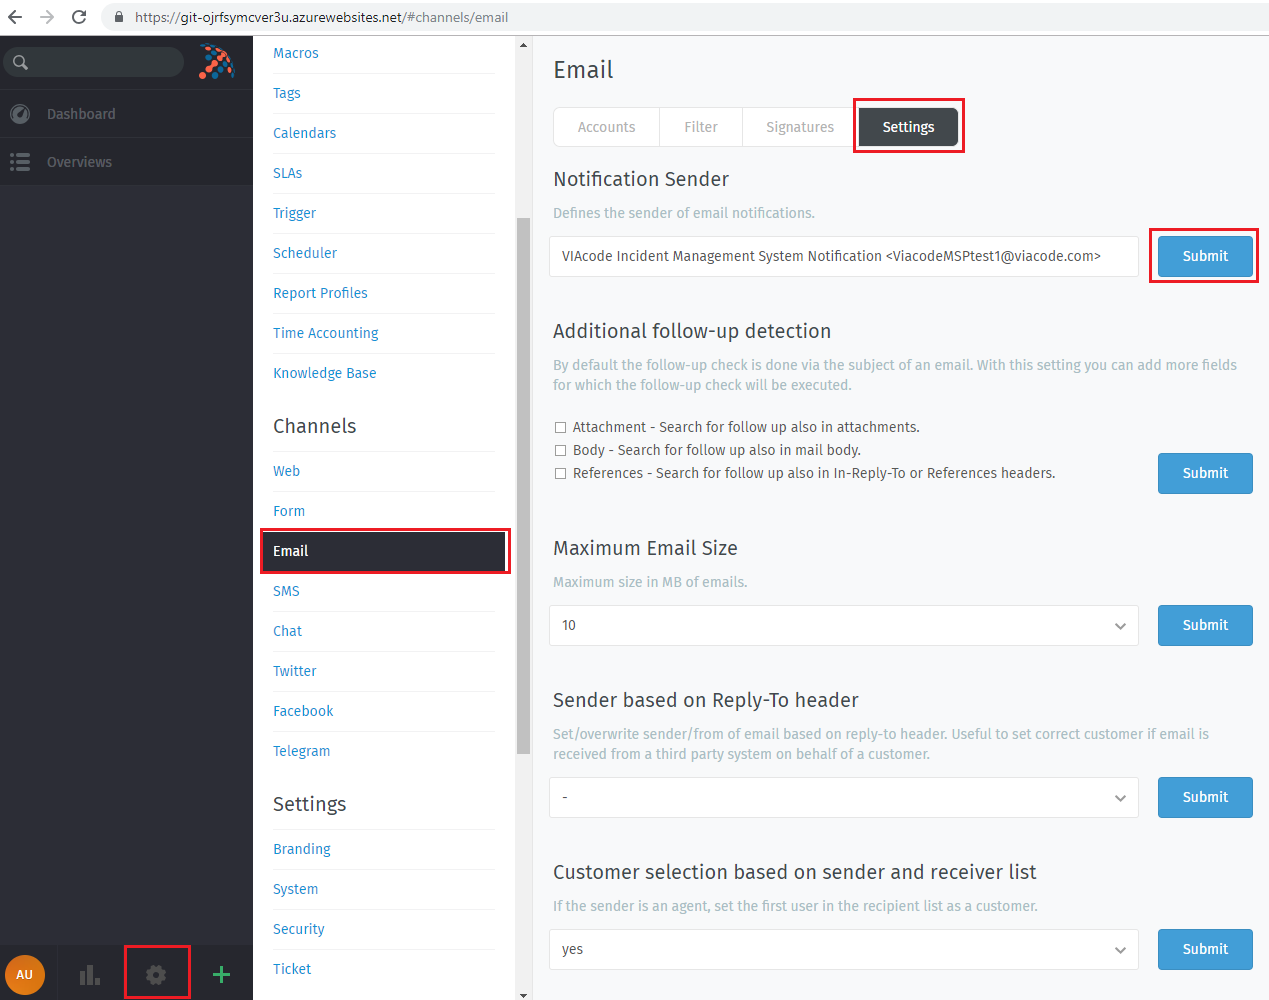
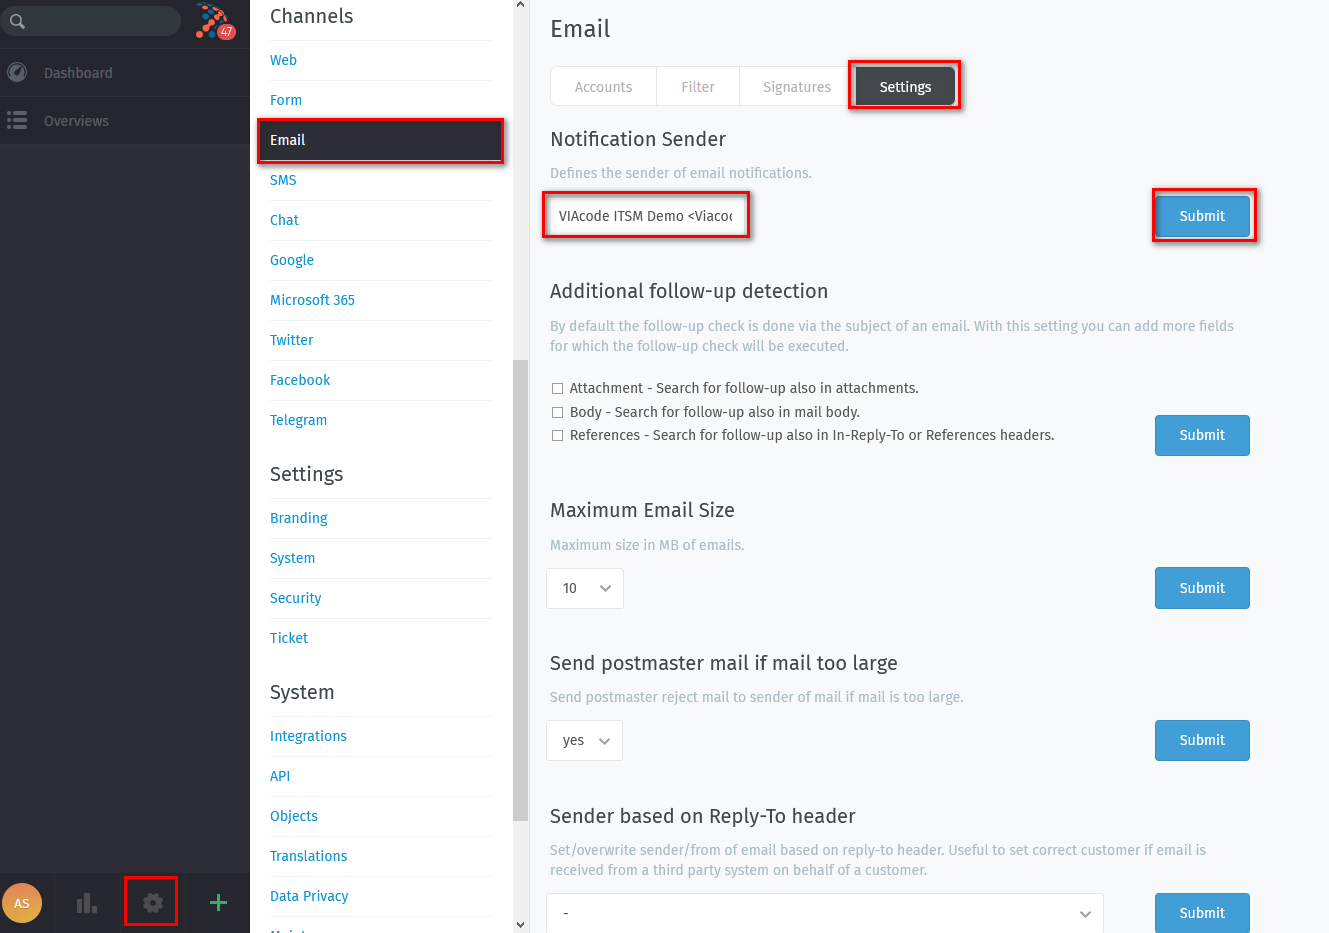
Updated information about authentication using MS Office 365 and email notifications configuration
Updated information about authentication using MS Office 365 and email notifications configuration

diff --git a/VIAcode Incident Management System for Azure deployment and сonfiguration guide.md b/VIAcode Incident Management System for Azure deployment and сonfiguration guide.md
@@ -3,25 +3,25 @@
 - [Before you begin](#before-you-begin)
   - [Deploy from Azure Marketplace](#deploy-from-azure-marketplace)
     - [Pricing](#pricing)
-
 - [Configuration of VIAcode Incident Management System for Azure](#configuration-of-viacode-incident-management-system-for-azure)
   - [Basics](#basics)
   - [Settings](#settings)
-    - [Purpose of an App registration](#purpose-of-an-app-registration)
   - [Review and create](#review-and-create)
-  - [Redirect URI for Azure AD Integration](#redirect-uri-for-azure-ad-integration)
   - [First Sign in](#first-sign-in)
-    - [Email configuration](#email-configuration)
-    - [Notes](#notes)
-    - [Enable Azure AD Integration after installation](#enable-azure-ad-integration-after-installation)
-
-- [Additional information](#additional-information)
-  - [Steps to create a new App registration in Azure AD](#steps-to-create-a-new-app-registration-in-azure-ad)
-
+  - [Redirect URI for Azure AD Integration](#redirect-uri-for-azure-ad-integration)
+  - [Email configuration](#email-configuration)
+    - [Notification sender](#Notification-sender)
+    - [Outbound notification](#Outbound-notification)
+    - [Microsoft 365 channel configuration](Microsoft-365-channel-configuration)
+    - [Email notification notes](#Email-notification-notes)
+- [Enable Azure AD Integration with Office 365 after installation](#Enable-Azure-AD-Integration-with-Office-365-after-installation)
+  - [Enable https in Settings](#Enable-https-in-Settings)
+  - [Create a new App registration in Azure AD](#Create-a-new-App-registration-in-Azure-AD)
+  - [Enable Office 365 Authentication](#Enable-Office-365-Authentication)
 - [Uninstallation of VIAcode Incident Management System for Azure](#uninstallation-of-viacode-incident-management-system-for-azure)
   - [Deletion Notes](#deletion-notes)
   - [Steps to Remove Application and Managed Resource Group](#steps-to-remove-application-and-managed-resource-group)
-<!-- TOC END -->
+  <!-- TOC END -->
 
 ## Before you begin
 
@@ -68,21 +68,13 @@ After you have selected "VIAcode Incident Management System for Azure" software 
 
 ## Settings
 
-To enable Azure AD Integration you have to specify Azure AD Application Registration ID and Secret. To create a new App registration see [Steps to create a new App registration in Azure AD](#steps-to-create-a-new-app-registration-in-azure-ad).
-
-![Azure AD Integration](./media/azureADIntegrationEnabled.png)
-
-- Either "Enable" Azure AD integration or leave it "Disabled".
-- Set Azure AD Application Registration ID.
-- Set Secret.
+- "Enable" Azure AD integration or leave it "Disabled".
+To enable Azure AD Integration you have to specify Azure AD Application Registration ID and Secret.  How create a new App registration see [Create a new App registration in Azure AD](#Create-a-new-App-registration-in-Azure-AD).
+- For "Enabled" scenario set Azure AD Application Registration ID and  Secret.
+- For "Disabled" scenario continue installation with default settings. 
 - Press "Next : Review + create >" button.
 
-### Purpose of an App registration
-
-It is used to integrate VIAcode Incident Management System for Azure with Azure AD and Office 365.
-Using Azure App, we can generate the token to authenticate the application.
-When Azure App is created we can get the Application (client) ID and Secret.
-For more information see [Quickstart: Register an application with the Microsoft identity platform.](https://docs.microsoft.com/azure/active-directory/develop/quickstart-register-app)
+![Azure AD Integration](./media/azureADIntegrationEnabled.png)
 
 ## Review and create
 
@@ -91,11 +83,30 @@ For more information see [Quickstart: Register an application with the Microsoft
 - Agree to the terms and conditions.
 - Press "Create" button.
 
+## First Sign in
+
+- Open VIAcode Incident Management System for Azure dashboard and click on the link to get to the system.
+
+![First Sign in](./media/firstSignIn.png)
+
+### Login to VIMS
+
+Read this section if you installed VIMS with AAD Integration "Disabled" option. 
+
+- USERNAME / EMAIL - admin.
+- Password - admin.
+- "Sign in".
+
+Note: By default VIMS administrator has admin/admin credentials. Please, do not forget to change them after your first Sign in.
+
+![Sign in using credentials](./media/signInUsingCredentials.png)
+
 ## Redirect URI for Azure AD Integration
 
-When deployment finishes (it usually takes up to 15 minutes to complete) you will have to configure redirect URI to enable Azure Active Directory integration.
+Read this section if you installed VIMS with AAD Integration "Enabled" option. 
+After VIMS installation you will have to configure redirect URI to enable Azure Active Directory integration.
 
-**Step 1** In the left-hand navigation pane, select the "Azure Active Directory" service, then select "App registrations" and "[Name of the App registration you used to install VIAcode Incident Management System for Azure]."
+**Step 1** In the left-hand navigation pane, select the "Azure Active Directory" service, then select "App registrations" and "Name of the App registration" you used to install VIAcode Incident Management System for Azure.
 
 
 **Step 2** Click on "Redirect URIs" link.
@@ -106,9 +117,9 @@ When deployment finishes (it usually takes up to 15 minutes to complete) you wil
 Configure Redirect URI.
 
 - TYPE - Web.
-- REDIRECT URI - https://[App Service Address]/auth/microsoft_office365/callback.
+- REDIRECT URI - https://your-domain.com/auth/microsoft_office365/callback.
 
-Note: The [App Service Address] can be copied from Parameters and Outputs of the installed managed application.
+Note: The  ``your-domain.com``can be copied from Parameters and Outputs of the installed managed application.
 
 ![Configure Redirect URI](./media/configureRedirectURI.png)
 
@@ -116,33 +127,23 @@ Final string looks like `https:/vims-nktbyzg56jxak.azurewebsites.net/auth/micros
 
 - Click on "Register."
 
-## First Sign in
+## Email configuration
+When you Log in to VIAcode Incident Management System for Azure as administrator please configure email notification. 
+Next steps will show how configure email notification for account. 
 
-![First Sign in](./media/firstSignIn.png)
+### Notification sender 
+Define notification sender email address. 
+Note that Microsoft 365 account needs to have Exchange license to be able send and receive messages. 
 
-- Open VIAcode Incident Management System for Azure dashboard and click on the link to get to the system.
-
-![Sign in using credentials](./media/signInUsingCredentials.png)
-
-- USERNAME / EMAIL - admin.
-- Password - admin.
-- "Sign in".
-
-Note: By default VIMS administrator has admin/admin credentials. Please, do not forget to change them after your first Sign in.
-
-### Email configuration
-
-When you Log in to VIAcode Incident Management System for Azure as administrator please configure email notification.
-
-![Notification Sender](./media/notificationSender.png)
-
-- Click "Cogwheel" in the left bottom corner.
+- Click "Gear" at the left bottom corner.
 - Click "Email" in Channels section.
 - Click "Settings".
-- Enter sender name and email in angle brackets in Notification Sender section like it is shown in the screenshot.
+- Enter sender name and email in angle brackets in "Notification Sender" section like it is shown in the screenshot below.
 - Click "Submit".
+![Notification Sender](./media/notificationSender.png)
 
-![Email Notification](./media/emailNotification.png)
+### Outbound notification
+Configure Outbound notification on  issues that were raised by external sources. For example,  incidents and recommendations from [ITSM Connector for Azure]( https://azuremarketplace.microsoft.com/en-us/marketplace/apps/viacode_consulting-1089577.viacode-itsm-connector-for-azure?tab=Overview).
 
 - Click "Accounts".
 - Click "Edit" in Email Notification section.
@@ -153,39 +154,50 @@ When you Log in to VIAcode Incident Management System for Azure as administrator
 - Default port for SMTP is 587.
 - Click "Continue" button.
 
-![New email Accounts and Experts](./media/newEmailAccountsAndExperts.png)
+![EmailNotificationOutbound](./media/emailNotifOutboundsmtp.png)
 
-- Click "New" button in Email Accounts section.
-- Fill Organization & Department Name.
-- Fill Email with the account you will you use for email notification.
-- Select "Incidents" in Destination Group.
-- Click "Experts" link.
+### Microsoft 365 channel configuration
+It is possible receive incidents raised by customers using direct email messages to the 'Notification sender's' email address. Each email message to this account will create new ticket in VIMS. 
+Below described configuration flow for Microsoft 365 channel. 
 
-![Email Inbound](./media/emailInbound.png)
+#### Enable https in Settings
+- Open VIMS admin panel
+- Select "Gear" at the left bottom corner
+- Go to  "Settings-System-Base-HTTP type"
+- Select "https"
+- Click "Submit"
 
-- Select "IMAP" Type.
-- Fill Host with `outlook.office365.com` for office 365 accounts.
-- Fill User with the account you will you use for email notification.
-- Fill Password.
-- Default port for IMAP is 993.
-- Click "Continue" button.
+![Enablehttps](./media/EnableHttps.png)
 
-![Email Outbound](./media/emailOutbound.png)
+#### Copy Callback URL in Microsoft 365 
 
-- Check settings.
-- Default port for SMTP is 587.
-- Click "Continue" button.
+- Open VIMS admin panel
 
-Now, when email configuration is complete, make sure Incoming Group has email configured.
+- Go to  "Channels-Microsoft 365- Accounts- Connect Microsoft 365 App"
 
-![Edit Incoming Group](./media/editIncomingGroup.png)
+- Copy "Your callback URL" field 
 
-- Click "Cogwheel" in the left bottom corner.
-- Click "Groups".
-- Click "Incoming".
-- Click "Email" and select the Notification Sender you have configured.
+- It will have the following format:`` https://your-domain.com/api/v1/external_credentials/microsoft365/callback``
 
-#### Notes
+  ![CallbackURL](./media/callbackURL.png)
+
+#### Create Application in AAD
+
+Create application in Azure Active Directory of notification email account's tenant. For example, for viacode.com email account we need create application in AAD for viacode.com tenant. 
+
+Follow application configuration process described in [Zammad documentation](https://admin-docs.zammad.org/en/latest/channels/microsoft365/accounts/register-app.html#step-by-step). 
+
+#### Connect Microsoft 365 app with VIMS
+
+-  Follow steps  [how connect to O365 account in Zammad documentation](https://admin-docs.zammad.org/en/latest/channels/microsoft365/accounts/account-setup.html#add-a-new-account ). 
+- Click "Add account" to authenticate in Azure 
+- Select "Incidents" as a Destination Group
+
+![ConfigMSOffice365](./media/configO365.png)
+
+Congratulations! Now all incoming messages will be converted into incidents in your ticketing system.
+
+### Email notification notes
 
 Email configuration is required for enabling following functionality:
 
@@ -206,23 +218,27 @@ In general, VIAcode Incident Management System for Azure best practice is to cre
 
 For current email set up documentation see [e-mail](https://zammad-admin-documentation.readthedocs.io/en/latest/channels-email.html).
 
-### Enable Azure AD Integration after installation
 
-To Sign in using Office 365 account after you installed VIAcode Incident Management System for Azure with AD Integration disabled follow these steps:
+## Enable Azure AD Integration with Office 365 after installation
+This section allows enable authentication to VIMS using Office 365 email account or, in other words, enable Azure AD Integration.  
 
-- Enable HTTPS in System - Base and Make sure Fully Qualified Domain Name is identical to your real URL.
+### Enable https in Settings
 
-![Check HTTPS enabled](./media/httpsConfigEnabled.png)
+- Open VIMS admin panel
+- Go to  "Settings-System-Base-HTTP type"
+- Select "https"
+- Click "Submit"
 
-- Select Security - Third-party Applications and enable checkbox Authentication via Office 365, then fill App ID and App Secret according to created application.
+![Enablehttps](./media/EnableHttps.png)
 
-![Configure Office365](./media/authMicrosoftOffice365Config.png)
 
-## Additional information
+### Create a new App registration in Azure AD
 
-## Steps to create a new App registration in Azure AD
+App registrations is used to integrate VIAcode Incident Management System for Azure with Azure AD and Office 365. Using Azure App, we can generate the token to authenticate the application. When Azure App is created we can get the Application (client) ID and Secret.
 
-Follow the below-listed steps to register the application.
+Follow the below-listed steps to register the application. 
+
+Please note, to enable Office 365 authentication you cannot use ClientID and Secret of application that was created for   Microsoft 365 email channel notification.  You need create different application with different name and settings. 
 
 **Step 1**
 Log in to the Azure Portal using your Azure account.
@@ -235,9 +251,12 @@ In the left-hand navigation pane, select the "Azure Active Directory" service, a
 When the Register an application page appears, enter your application's registration information:
 
 - Name: Enter a meaningful application name that will be displayed to users of the app. (VIAcode Incident Management System for Azure.)
-- Supported account types: Select which accounts you would like your application to support. (Accounts in any organizational directory (Any Azure AD directory - Multitenant) and personal Microsoft accounts (e.g. Skype, Xbox)).
-- Redirect URI (optional): Leave it for now. It should be specified later when the managed application is installed.
-- "Register."
+
+- Supported account types: Select which accounts you would like your application to support.
+
+  Suggested: *Accounts in any organizational directory (Any Azure AD directory - Multitenant) and personal Microsoft accounts (e.g. Skype, Xbox))*.
+
+- "Register"
 
 **Step 4**
 In the menu blade select "Certificates & secrets" > "New client secret."
@@ -258,21 +277,33 @@ Use it as Azure AD Application Registration ID in Create VIAcode Incident Manage
 ![copy Application (client) ID](./media/copyApplicationClientID.png)
 
 **Step 8**
-Configure App registration authentication.
 
-Go to Authentication blade.
-Switch the radio button under 'Supported account types' to Multitenant:
+- After application created go to "Authentication" section of app on left panel
+- Switch the radio button under 'Supported account types' to Multitenant. 
+- Redirect URI(optional) Web. Specify your domain name. Is should have the following format: ``https://your-domain.com/auth/microsoft_office365/callback`` .
+- Front-channel logout URL. Specify your domain name. should have following format: ``https://your-domain.com/logout``
 
 ![Configure Redirect URI](./media/multitenantConfigurationVIMS.png)
 
+For more information see [Quickstart: Register an application with the Microsoft identity platform.](https://docs.microsoft.com/azure/active-directory/develop/quickstart-register-app)
+
+### Enable Office 365 Authentication
+
+- Open VIMS admin panel
+- Go to  "Settings-Security-Third-party Applications"
+- Scroll down to "Authentication via Office 365" and enable toggle
+- Fill App ID and App Secret you used to create application in Azure
+
+![Configure Office365](./media/authMicrosoftOffice365Config.png)
+
 ## Uninstallation of VIAcode Incident Management System for Azure
 
-#### Deletion Notes
+### Deletion Notes
 Installation of VIAcode Incident Management Sysytem for Azure requires 2 resource groups:
  - The First one for the application itself (Managed Application location).
- - The Second is for the managed resources that the application requires (e.g. "mrg-viacode-itsm-z-<id>").
+ - The Second is for the managed resources that the application requires (e.g. "mrg-viacode-itsm-z-```<id>``").
 
-## Steps to Remove Application and Managed Resource Group
+####  Steps to Remove Application and Managed Resource Group
 **Step 1**
 Go to Resource Group where the Managed Application installed (application named "VIAcode-Incident-Management-System-for-Azure").
 
@@ -280,7 +311,8 @@ Go to Resource Group where the Managed Application installed (application named 
 Select this Application and click "Delete" button, confirm the deletion by typing "Yes" on the sidebar, then click "Delete".
 Deletion the Managed Application will consequently delete the second resource group and all of its content.
 
-![Delete Confirmation](.media/Delete_VIMS_confirmation.PNG)
+![Delete Confirmation](./media/Delete_VIMS_confirmation.png)
 
 **Step 3** (optional)
 If the First Resource Group is empty - only Managed Application was stored there - you should also delete this Resource Group as well.
+
